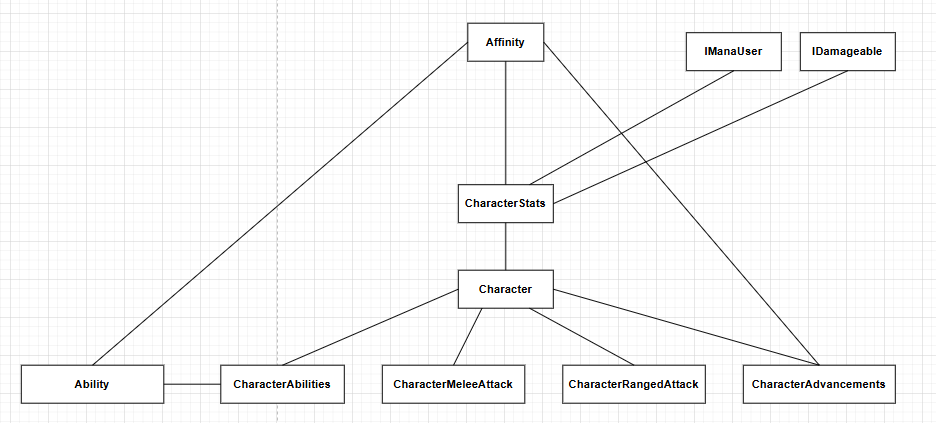
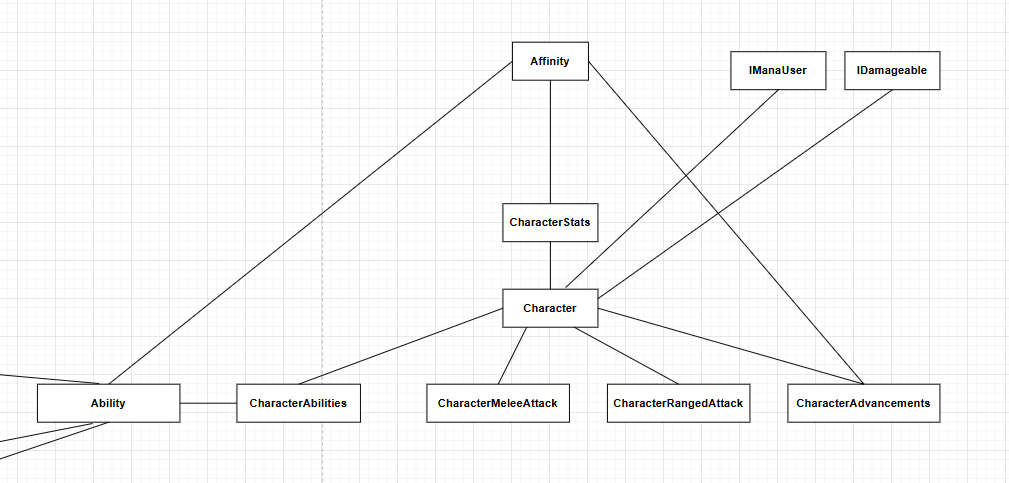
improve the user and bibliography

diff --git a/src/pages/Capstone/User.jsx b/src/pages/Capstone/User.jsx
@@ -1,65 +1,74 @@
-import React from 'react'
-import PageContent from '../../components/Capstone/PageContent'
-import { NavLink } from 'react-router-dom'
+import React from "react";
+import PageContent from "../../components/capstone/PageContent";
+import { NavLink } from "react-router-dom";
 
 const User = () => {
   return (
     <div>
       <PageContent>
-        <div className='my-20'>
-          <h1 className='capstone-h1 text-center'>The User</h1>
-        </div>
-        
-        <div className='mb-15'>
-          <h2 className='capstone-h2'>What is this?</h2>
-            <p className='mt-4'>
-              This project was created to showcase my ability to design and implement complex game systems from the ground up, 
-              while building a genuinely enjoyable experience around them. 
-            </p>
-            <p className='mt-4'>
-              The goal was not just to demonstrate technical proficiency, 
-              but to show how well designed systems when thoughtfully combined can create meaningful, engaging gameplay. 
-              From combat and progression to character building, every system was designed with both depth and accessibility in mind.
-            </p>
+        <div className="my-20">
+          <h1 className="capstone-h1 text-center">The User</h1>
         </div>
 
-        <div className='mb-15'>
-          <h2 className='capstone-h2'>Who is this for?</h2>
-            <p className='mt-4'>
-              If you're a <strong>player</strong>, you would be able to explore a rich, fantastical world filled with enemies
-              to battle and systems to master. From abilities and affinities to leveling and character advancements.
-              You'll also get to:
-            </p>
-            <ul className='list-disc list-inside ml-5'>
-              <li className='my-3'>Discover a diverse cast of characters, each with their own backstory</li>
-              <li className='my-3'>Guide them down unique paths and shape their life story</li>
-            </ul>
-            <p className='mt-4'>
-              If you're a <strong>game designer</strong>, designing and tuning content is straightforward and accessible. 
-              Core systems like character stats, ability properties, and difficulty scaling can all be adjusted with ease. Beyond that:
-            </p>
-            <ul className='list-disc list-inside ml-5'>
-              <li className='my-3'>Adding new characters and abilities is as simple as filling in values and selecting assets</li>
-              <li className='my-3'>No complex engineering work required to expand or balance the game</li>
-            </ul>
+        <div className="mb-15">
+          <h2 className="capstone-h2">What is this?</h2>
+          <p className="mt-4">
+            This project is a single-player RPG set in a fantastical world,
+            built around deep character systems and meaningful progression. You
+            get to follow and play characters who were once ordinary people from
+            Earth, now thrown into an unfamiliar world with abilities, enemies,
+            and a life story that's yours to discover and shape.
+          </p>
         </div>
 
-        <div className='mb-15'>
-          <h2 className='capstone-h2'>How to play the game?</h2>
-            <p className='mt-4'>
-              The game can be played over at itch.io with this link: 
-            </p>
-            <p className='mt-4'>
-              "insert webgl link to itch.io"
-            </p>
+        <div className="mb-15">
+          <h2 className="capstone-h2">Who is this for?</h2>
+          <p className="mt-4">
+            If you're a <strong>player</strong>, you would be able to explore a
+            rich, fantastical world filled with enemies to battle and systems to
+            master. From abilities and affinities to leveling and character
+            advancements. You also get to:
+          </p>
+          <ul className="list-disc list-inside ml-5">
+            <li className="my-3">
+              Discover a diverse cast of characters, each with their own
+              backstory
+            </li>
+            <li className="my-3">
+              Guide them down unique paths and shape their life story
+            </li>
+          </ul>
+          <p className="mt-4">
+            If you're a <strong>game designer</strong>, designing and tuning
+            content is straightforward and accessible. Core systems like
+            character stats, ability properties, and difficulty scaling can all
+            be adjusted with ease. Beyond that:
+          </p>
+          <ul className="list-disc list-inside ml-5">
+            <li className="my-3">
+              Adding new characters and abilities is as simple as filling in
+              values and selecting assets
+            </li>
+            <li className="my-3">
+              No complex engineering work required to expand or balance the game
+            </li>
+          </ul>
         </div>
-      
+
+        <div className="mb-15">
+          <h2 className="capstone-h2">How to play the game?</h2>
+          <p className="mt-4">
+            The game can be played over at itch.io with this link:
+          </p>
+          <p className="mt-4">"insert webgl link to itch.io"</p>
+        </div>
+
         <NavLink to="../" className="flex underline justify-center mt-20">
           Go back to Capstone Landing
         </NavLink>
       </PageContent>
     </div>
-  )
-}
+  );
+};
 
-export default User
+export default User;

diff --git a/src/pages/Capstone/Bibliography.jsx b/src/pages/Capstone/Bibliography.jsx
@@ -7,7 +7,7 @@ import assetRefs from "../../assets/assetsrefs.json";
 import fontRefs from "../../assets/fontrefs.json";
 import audioRefs from "../../assets/audiorefs.json";
 import webdevRefs from "../../assets/webdevrefs.json";
-import PageContent from "../../components/Capstone/PageContent";
+import PageContent from "../../components/capstone/PageContent";
 
 const Bibliography = () => {
   return (
@@ -18,31 +18,38 @@ const Bibliography = () => {
         </div>
         <div className="max-w-3xl mx-auto px-8 py-6 flex flex-col gap-6">
           <BibliographySection
+            section="Audio Assets"
+            annotation="These resources are being used for sound effects in my game."
+            references={audioRefs}
+          ></BibliographySection>
+          <BibliographySection
+            section="C#"
+            annotation="These resources helped me understand C# better."
+            references={csharpRefs}
+          ></BibliographySection>
+          <BibliographySection
+            section="Font Assets"
+            annotation="These resources are being used as fonts for my game."
+            references={fontRefs}
+          ></BibliographySection>
+          <BibliographySection
             section="Unity"
+            annotation="These resources helped me understand Unity Engine better. These include Unity components, built-in packages, or built-in classes."
             references={unityRefs}
           ></BibliographySection>
           <BibliographySection
             section="Unity UI Toolkit"
+            annotation="These resources helped me learn Unity UI Toolkit, which was a completely new package for me. The resources also contain UI Design advice."
             references={uiToolkitRefs}
           ></BibliographySection>
           <BibliographySection
-            section="C#"
-            references={csharpRefs}
-          ></BibliographySection>
-          <BibliographySection
             section="Visual Assets"
+            annotation="These resources helped me understand how to make better art for my game including the drawing tool (Aseprite) or general advice."
             references={assetRefs}
           ></BibliographySection>
           <BibliographySection
-            section="Font Assets"
-            references={fontRefs}
-          ></BibliographySection>
-          <BibliographySection
-            section="Audio Assets"
-            references={audioRefs}
-          ></BibliographySection>
-          <BibliographySection
             section="Web Development"
+            annotation="These resources helped me refresh my memory for web development. I also learned Tailwind for the first time."
             references={webdevRefs}
           ></BibliographySection>
         </div>

diff --git a/src/pages/Capstone/CapstoneLanding.jsx b/src/pages/Capstone/CapstoneLanding.jsx
@@ -1,6 +1,6 @@
 import { NavLink } from "react-router-dom";
 import Hero from "../../components/capstone/Hero";
-import PageContent from "../../components/Capstone/PageContent";
+import PageContent from "../../components/capstone/PageContent";
 
 const CapstoneLanding = () => {
   return (
@@ -10,9 +10,9 @@ const CapstoneLanding = () => {
         <div className="mt-50 flex flex-col items-center justify-center mb-10">
           <h1 className="capstone-h1">In Another World</h1>
           <p className="mt-5 text-lg text-center">
-            This is the landing page of my capstone project. I created a
-            roguelike and RPG game where I prioritize making scalable complex
-            gameplay systems.
+            This is the landing page for my capstone project. I created an RPG
+            with roguelike elements where the focus is building scalable,
+            complex gameplay systems.
           </p>
           <p className="mt-5 text-lg text-center">
             Navigate my capstone project using the buttons below.

diff --git a/src/components/Capstone/BibliographySection.jsx b/src/components/Capstone/BibliographySection.jsx
@@ -1,6 +1,6 @@
 import Citation from "./Citation";
 
-const BibliographySection = ({ section, references }) => {
+const BibliographySection = ({ section, annotation, references }) => {
   const stripArticle = (title) => {
     return title.replace(/^(a |an |the )/i, "").trim();
   };
@@ -26,10 +26,11 @@ const BibliographySection = ({ section, references }) => {
 
   return (
     <div className="bg-gray-200 rounded-xl mt-10">
-      <div className="py-6">
-        <h2 className="capstone-h2 text-center">{section}</h2>
+      <div className="px-8 py-8">
+        <h2 className="capstone-h2">{section}</h2>
+        <p className="mt-2">{annotation}</p>
       </div>
-      <div className="max-w-3xl mx-auto px-8 pb-6 flex flex-col gap-6">
+      <div className="max-w-3xl mx-auto px-8 pb-6 flex flex-col gap-4">
         {sortByAuthorThenTitle(references).map((ref, index) => (
           <Citation
             key={index}

diff --git a/src/layouts/MainLayout.jsx b/src/layouts/MainLayout.jsx
@@ -1,13 +1,21 @@
-import { Outlet } from "react-router-dom"
-import Navbar from "../components/Navbar"
+import { Outlet } from "react-router-dom";
+import Navbar from "../components/Navbar";
+import { useEffect } from "react";
+import { useLocation } from "react-router-dom";
 
 const MainLayout = () => {
+  const { pathname } = useLocation();
+
+  useEffect(() => {
+    window.scrollTo(0, 0);
+  }, [pathname]);
+
   return (
     <>
-      <Navbar/>
-      <Outlet/>
+      <Navbar />
+      <Outlet />
     </>
-  )
-}
+  );
+};
 
-export default MainLayout
+export default MainLayout;

diff --git a/src/components/Capstone/Citation.jsx b/src/components/Capstone/Citation.jsx
@@ -5,7 +5,11 @@ const Citation = ({ author, title, publisher, year, url, accessDate }) => {
       {title && <span className="italic">"{title}." </span>}
       {publisher && <span>{publisher}, </span>}
       {year && <span>{year}. </span>}
-      {url && <span>{url}. </span>}
+      {url && (
+        <a className="text-blue-600 hover:text-blue-500" href={url}>
+          {url}.{" "}
+        </a>
+      )}
       {accessDate && <span>Accessed {accessDate}.</span>}
     </p>
   );
